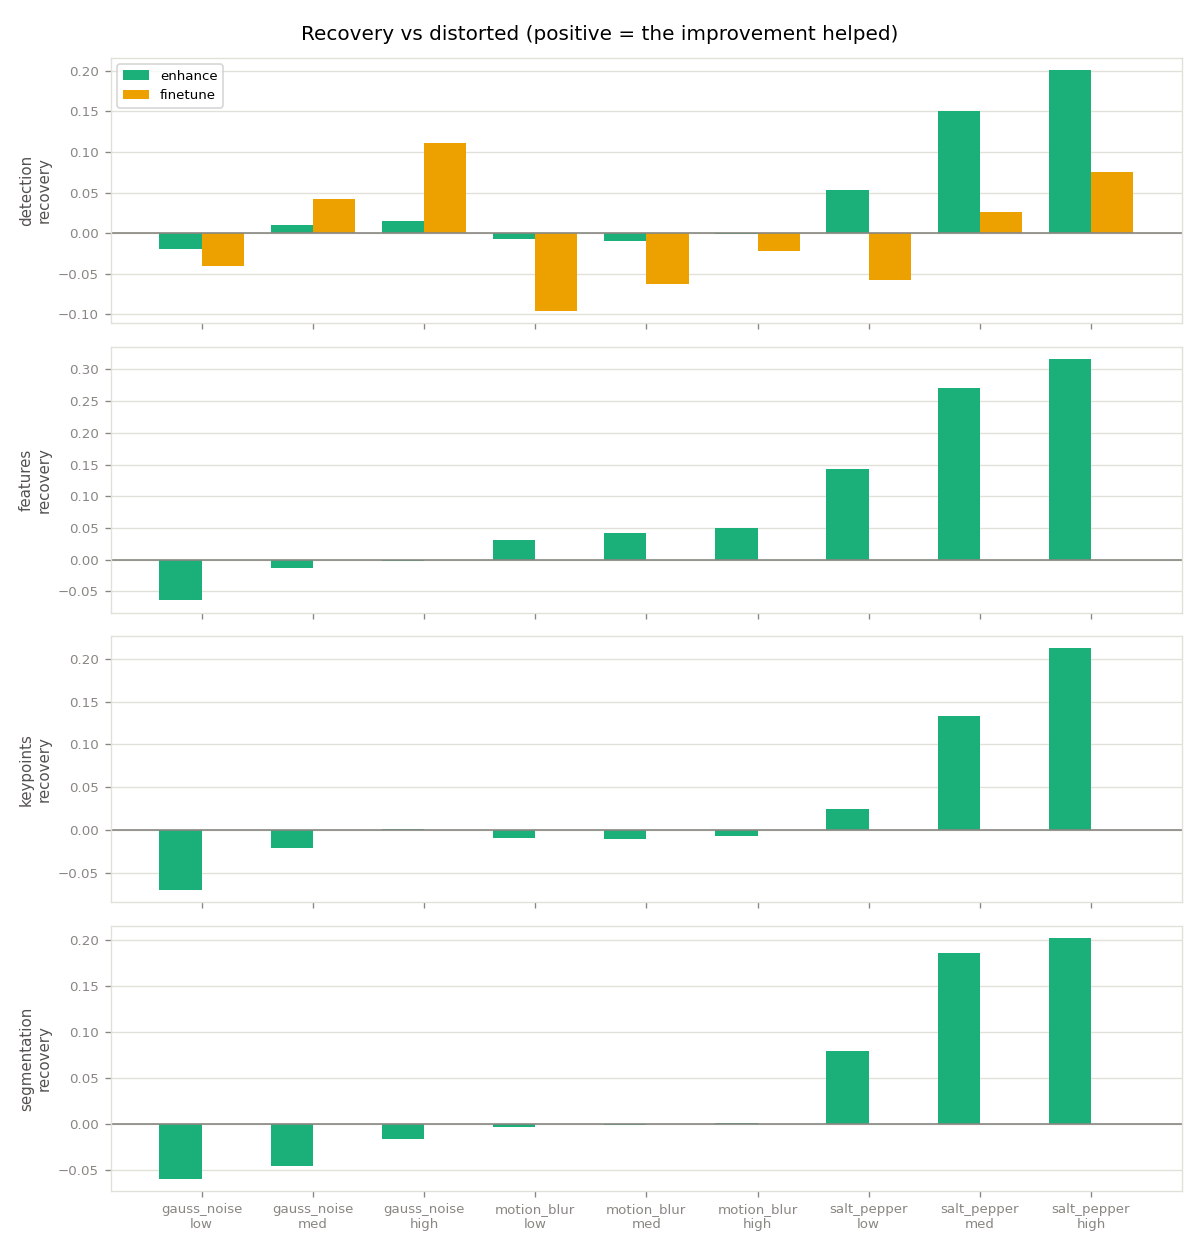
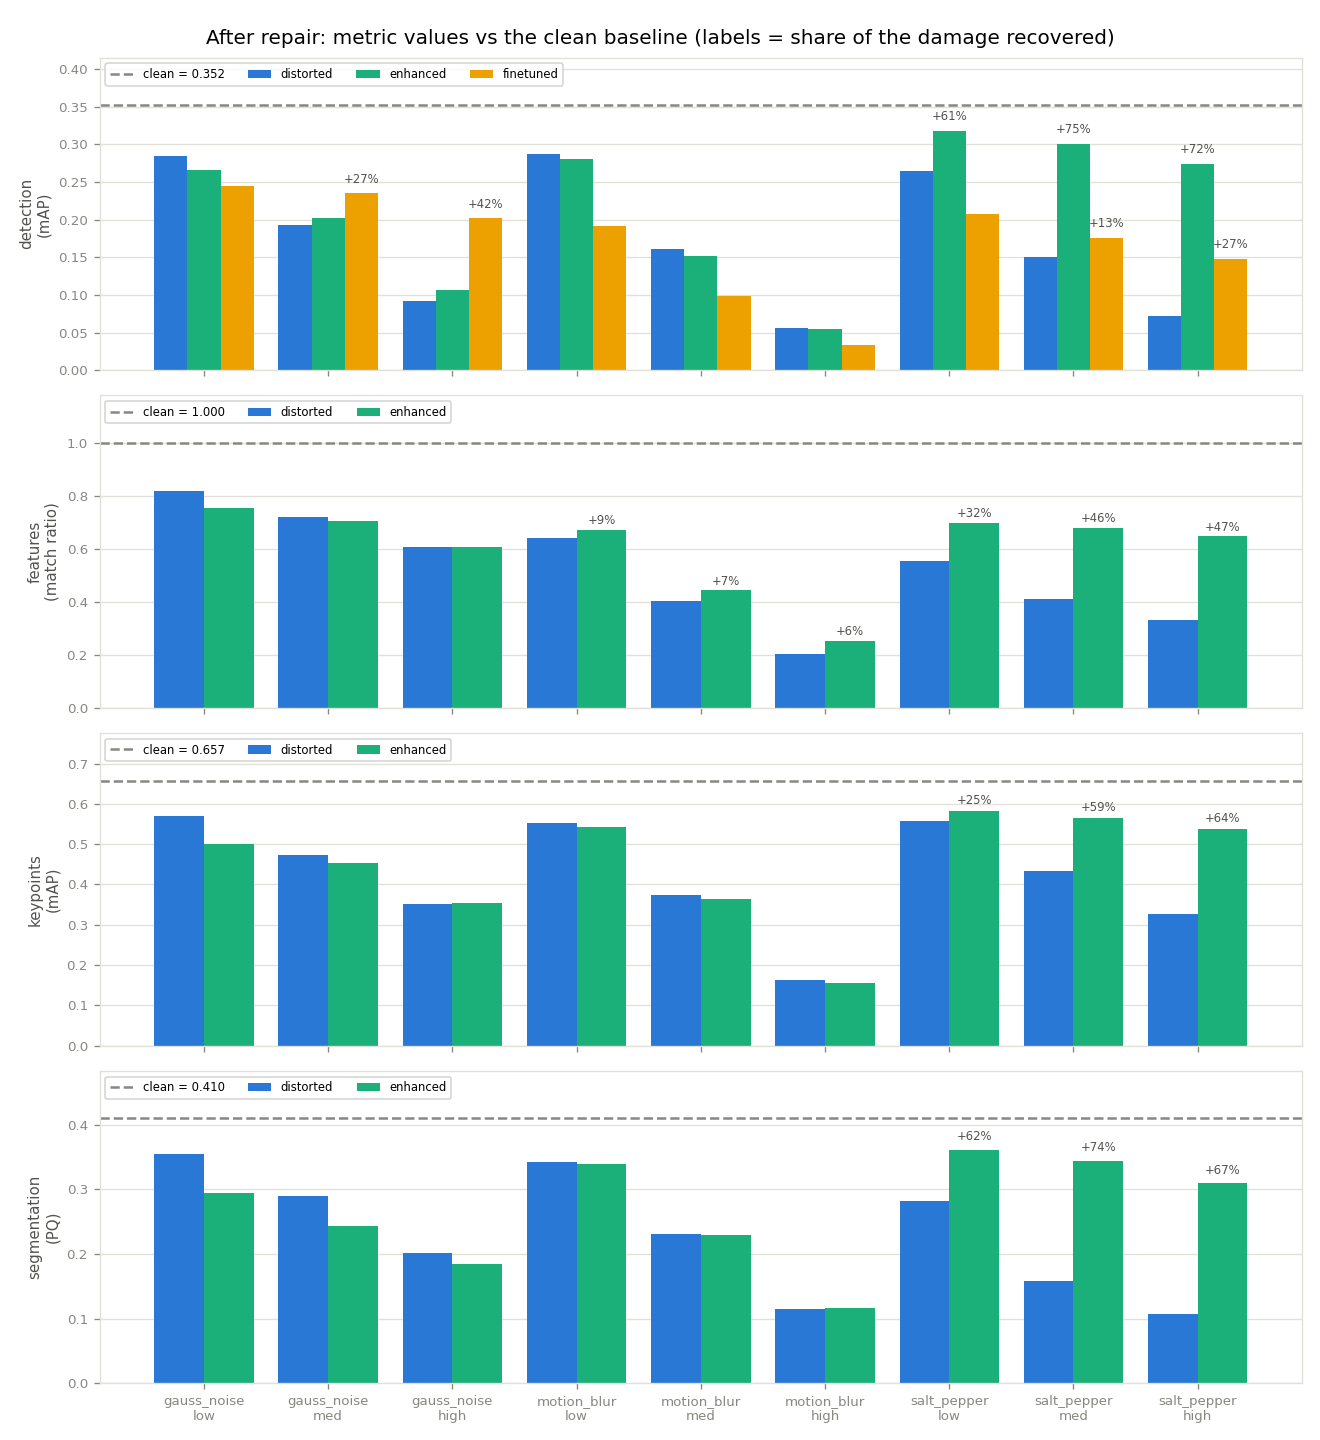
Recovery figure: absolute metric values + share-of-damage-recovered labels
Delta-only bars lacked context. The figure now shows distorted/enhanced/
finetuned metric values against the clean-baseline line, with % labels for
how much of the damage each repair recovered (median filter: 61-75% on
salt & pepper across all tasks; fine-tune: 42% on gauss/high; blur: 0-9%).

diff --git a/src/visualize.py b/src/visualize.py
@@ -90,9 +90,10 @@ def plot_acc_vs_snr(cfg: Dict) -> None:
 
 
 def plot_recovery_bars(cfg: Dict) -> None:
-    """The improvement trend at a glance: recovery (improved − distorted) per
-    distortion × severity cell, one panel per task. Positive bars = the
-    improvement strategy helped; negative = it made things worse."""
+    """Absolute metric values per distortion × severity cell, one panel per
+    task: distorted vs enhanced vs finetuned bars against the clean-baseline
+    line, with '% of the damage recovered' labels on repairs that helped —
+    so both the depth of the damage and the size of the rescue are visible."""
     comp_path = Path(cfg["paths"]["metrics_dir"]) / "comparison.csv"
     if not comp_path.exists():
         return
@@ -101,23 +102,37 @@ def plot_recovery_bars(cfg: Dict) -> None:
     if not tasks:
         return
     sev_order = {"low": 0, "med": 1, "high": 2}
-    fig, axes = plt.subplots(len(tasks), 1, figsize=(10, 2.6 * len(tasks)),
+    fig, axes = plt.subplots(len(tasks), 1, figsize=(11, 3.0 * len(tasks)),
                              sharex=True)
     axes = [axes] if len(tasks) == 1 else list(axes)
     for ax, task in zip(axes, tasks):
         sub = df[df["task"] == task].copy()
         sub["order"] = sub["severity"].map(sev_order)
-        sub = sub.sort_values(["distortion", "order"])
+        sub = sub.sort_values(["distortion", "order"]).reset_index(drop=True)
         labels = [f"{d}\n{s}" for d, s in zip(sub["distortion"], sub["severity"])]
         x = np.arange(len(sub))
-        width = 0.38
-        ax.bar(x - width / 2, sub["recovery_enhance"], width,
-               color=VARIANT_STYLE["enhanced"]["color"], label="enhance")
-        if sub["recovery_finetune"].notna().any():
-            ax.bar(x + width / 2, sub["recovery_finetune"], width,
-                   color=VARIANT_STYLE["finetuned"]["color"], label="finetune")
-        ax.axhline(0, color=INK_MUTED, lw=1)
-        ax.set_ylabel(f"{task}\nrecovery", fontsize=9, color=INK)
+        has_ft = sub["finetuned"].notna().any()
+        series = ["distorted", "enhanced"] + (["finetuned"] if has_ft else [])
+        width = 0.8 / len(series)
+        for i, variant in enumerate(series):
+            xpos = x - 0.4 + (i + 0.5) * width
+            ax.bar(xpos, sub[variant], width,
+                   color=VARIANT_STYLE[variant]["color"], label=variant)
+            if variant == "distorted":
+                continue
+            # label repairs that helped with % of the damage they recovered
+            rec = sub[f"recovery_{'enhance' if variant == 'enhanced' else 'finetune'}"]
+            pct = rec / (-sub["degradation"])
+            for xi, v, p, r in zip(xpos, sub[variant], pct, rec):
+                if not np.isnan(v) and r > 0.02:
+                    ax.text(xi, v + 0.01, f"+{p:.0%}", ha="center", va="bottom",
+                            fontsize=7, color=INK)
+        clean_v = float(sub["clean"].iloc[0])
+        ax.axhline(clean_v, color=INK_MUTED, ls="--", lw=1.5,
+                   label=f"clean = {clean_v:.3f}")
+        ax.set_ylabel(f"{task}\n({'match ratio' if task == 'features' else 'mAP' if task in ('detection', 'keypoints') else 'PQ'})",
+                      fontsize=9, color=INK)
+        ax.set_ylim(0, clean_v * 1.18)
         ax.set_axisbelow(True)
         ax.grid(True, axis="y", color=GRID, lw=0.8)
         ax.tick_params(colors=INK_MUTED, labelsize=8)
@@ -125,9 +140,9 @@ def plot_recovery_bars(cfg: Dict) -> None:
             spine.set_color(GRID)
         ax.set_xticks(x)
         ax.set_xticklabels(labels, fontsize=8)
-    axes[0].legend(fontsize=8, loc="upper left")
-    fig.suptitle("Recovery vs distorted (positive = the improvement helped)",
-                 fontsize=12)
+        ax.legend(fontsize=7, loc="upper left", ncol=4)
+    fig.suptitle("After repair: metric values vs the clean baseline "
+                 "(labels = share of the damage recovered)", fontsize=12)
     out = _figdir(cfg) / "recovery_bars.png"
     fig.tight_layout()
     fig.savefig(out, dpi=120)

diff --git a/README.md b/README.md
@@ -105,12 +105,14 @@ metric in [`summary_long.csv`](results/metrics/summary_long.csv).
 
 ### The headline: two repair strategies, and each wins somewhere else
 
-The project's main result in one figure — **recovery** (improved − distorted)
-for every distortion × severity cell, one panel per task. Bars above zero mean
-the repair helped. Classical enhancement (green) rescues impulse noise for
-*every* task and gets stronger as the corruption gets worse; fine-tuning
-(amber, detection only) rescues heavy Gaussian noise; **nothing repairs motion
-blur**:
+The project's main result in one figure — the **actual metric values** after
+each repair, per distortion × severity cell, one panel per task. Blue = the
+damaged score, green/amber = after classical enhancement / fine-tuning, the
+dashed line = the clean baseline, and each label is the **share of the damage
+that the repair recovered**. Classical enhancement rescues **61–75%** of the
+impulse-noise damage for *every* task (and gets stronger as the corruption
+gets worse); fine-tuning recovers **42%** of the heavy-Gaussian-noise damage
+for the detector; **nothing repairs motion blur** (0–9%):
 
 ![recovery per cell](results/figures/recovery_bars.png)
 
